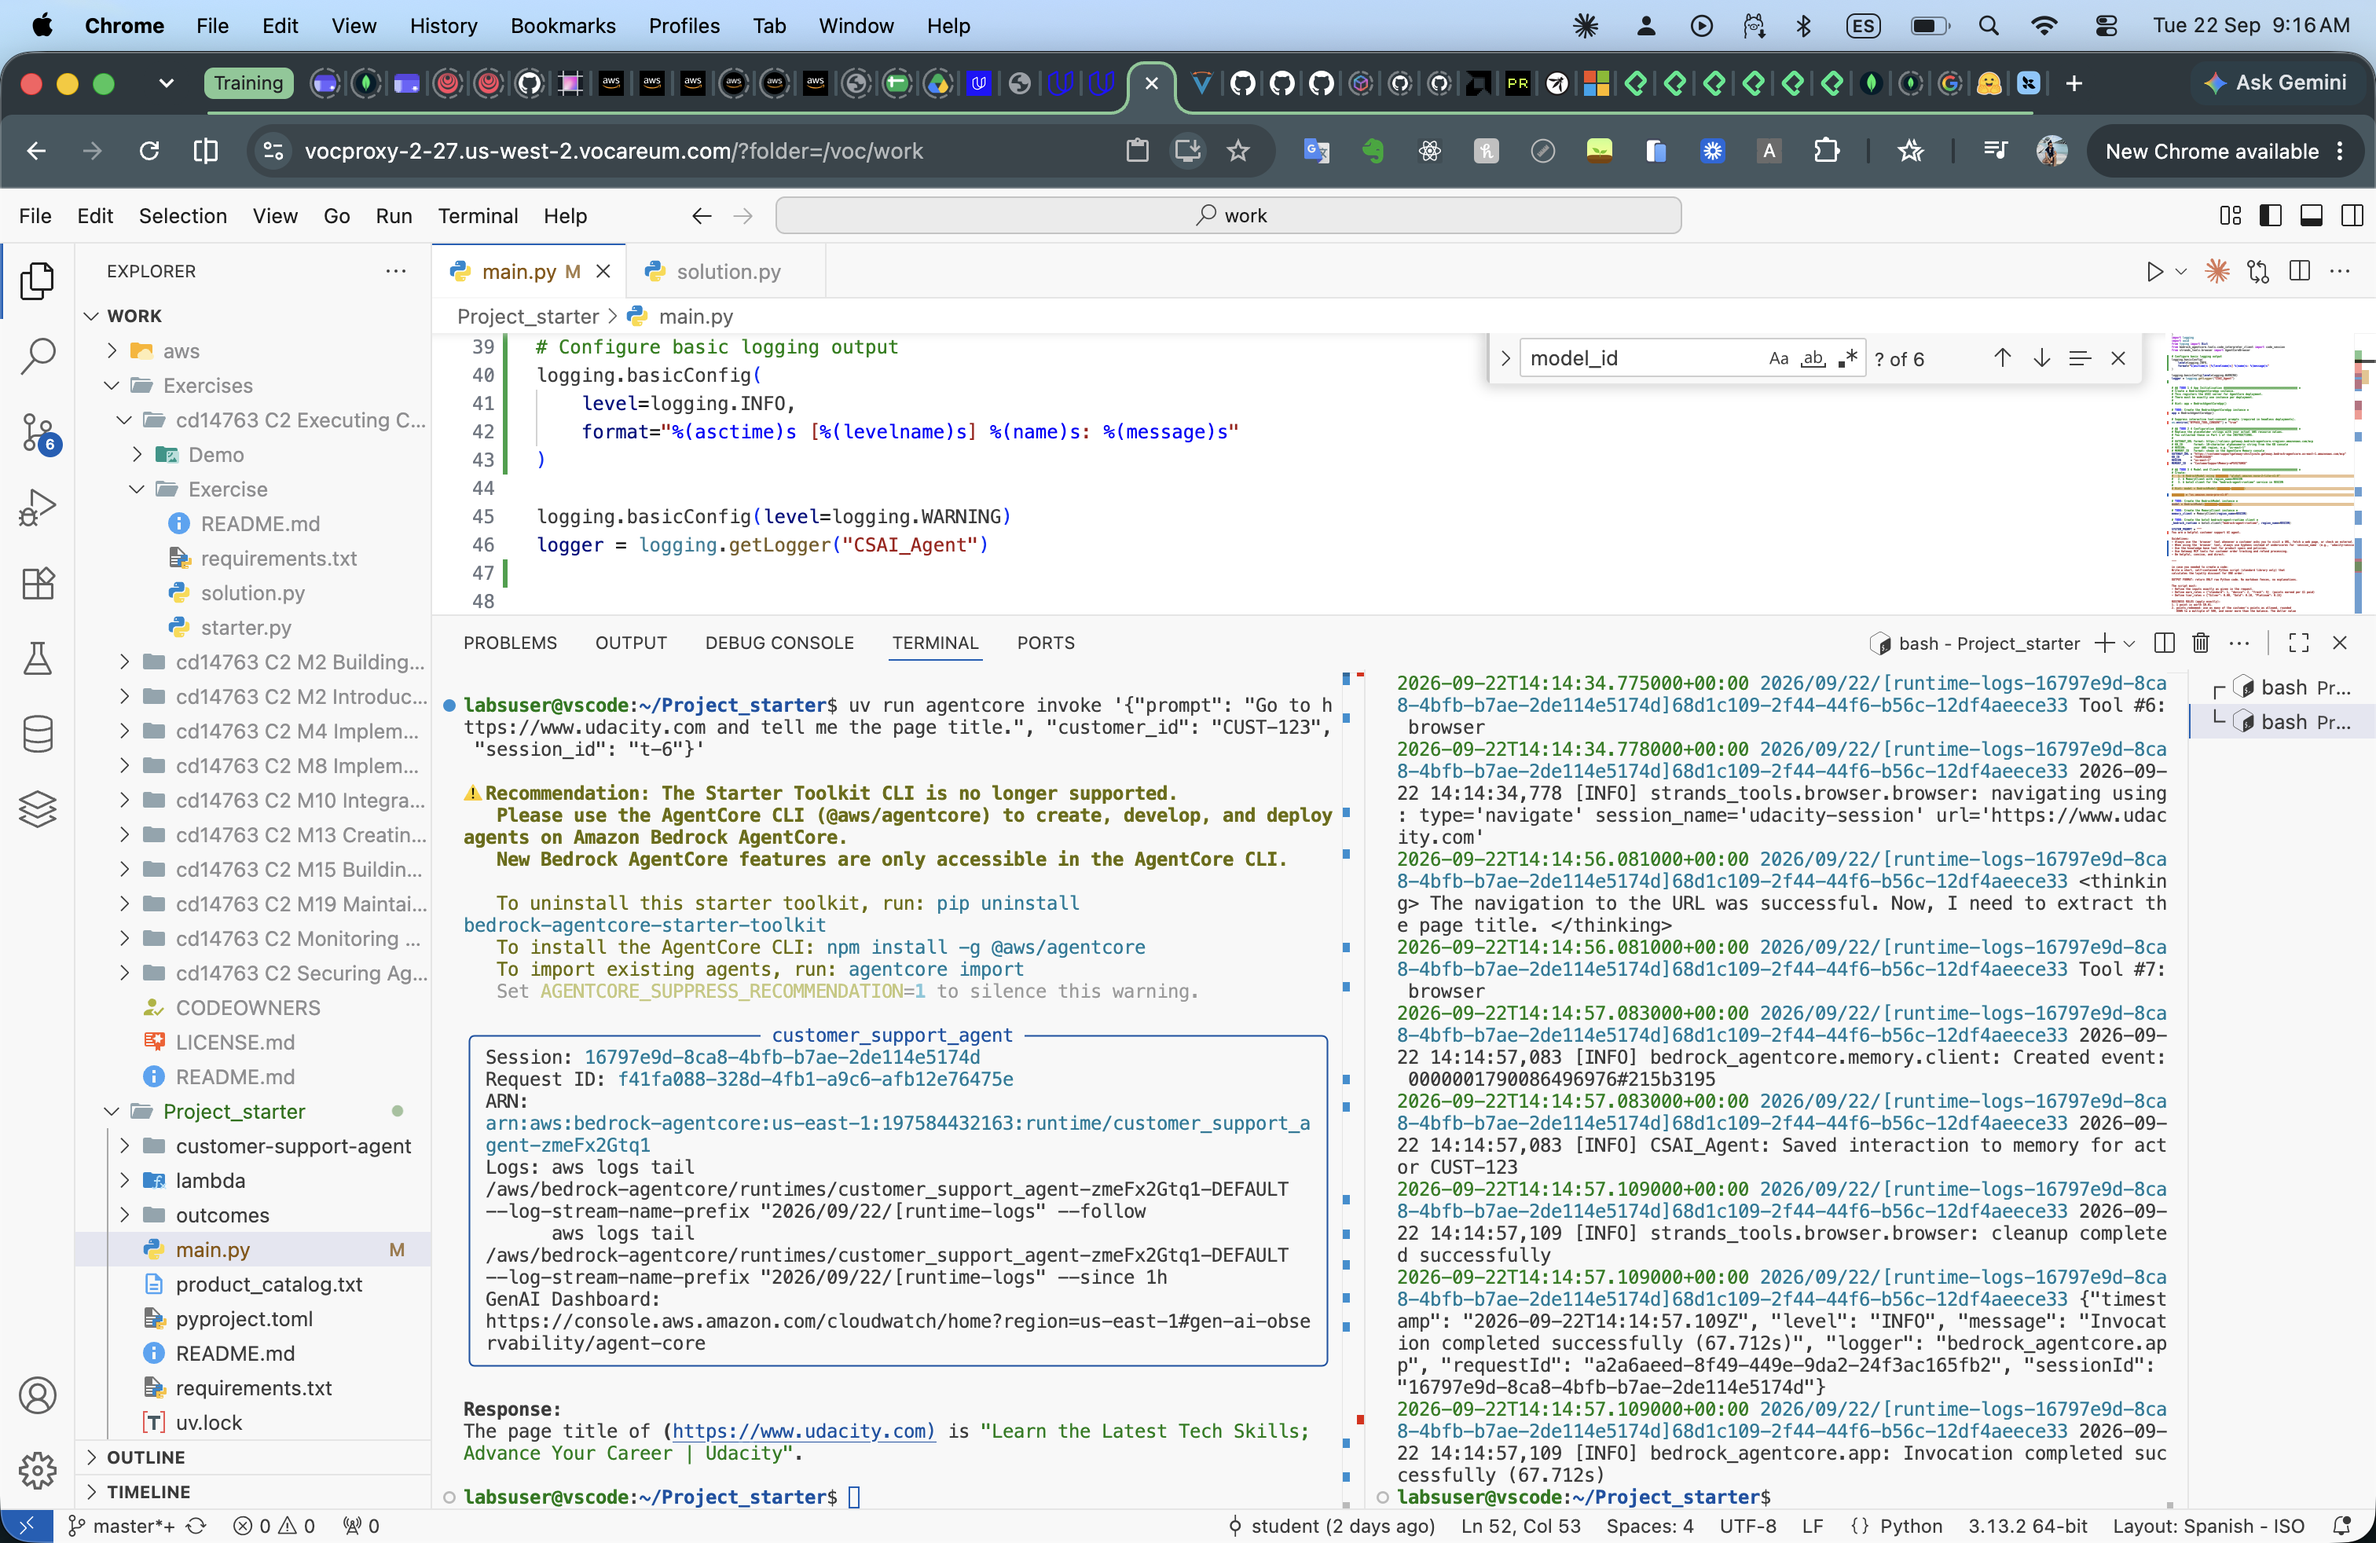
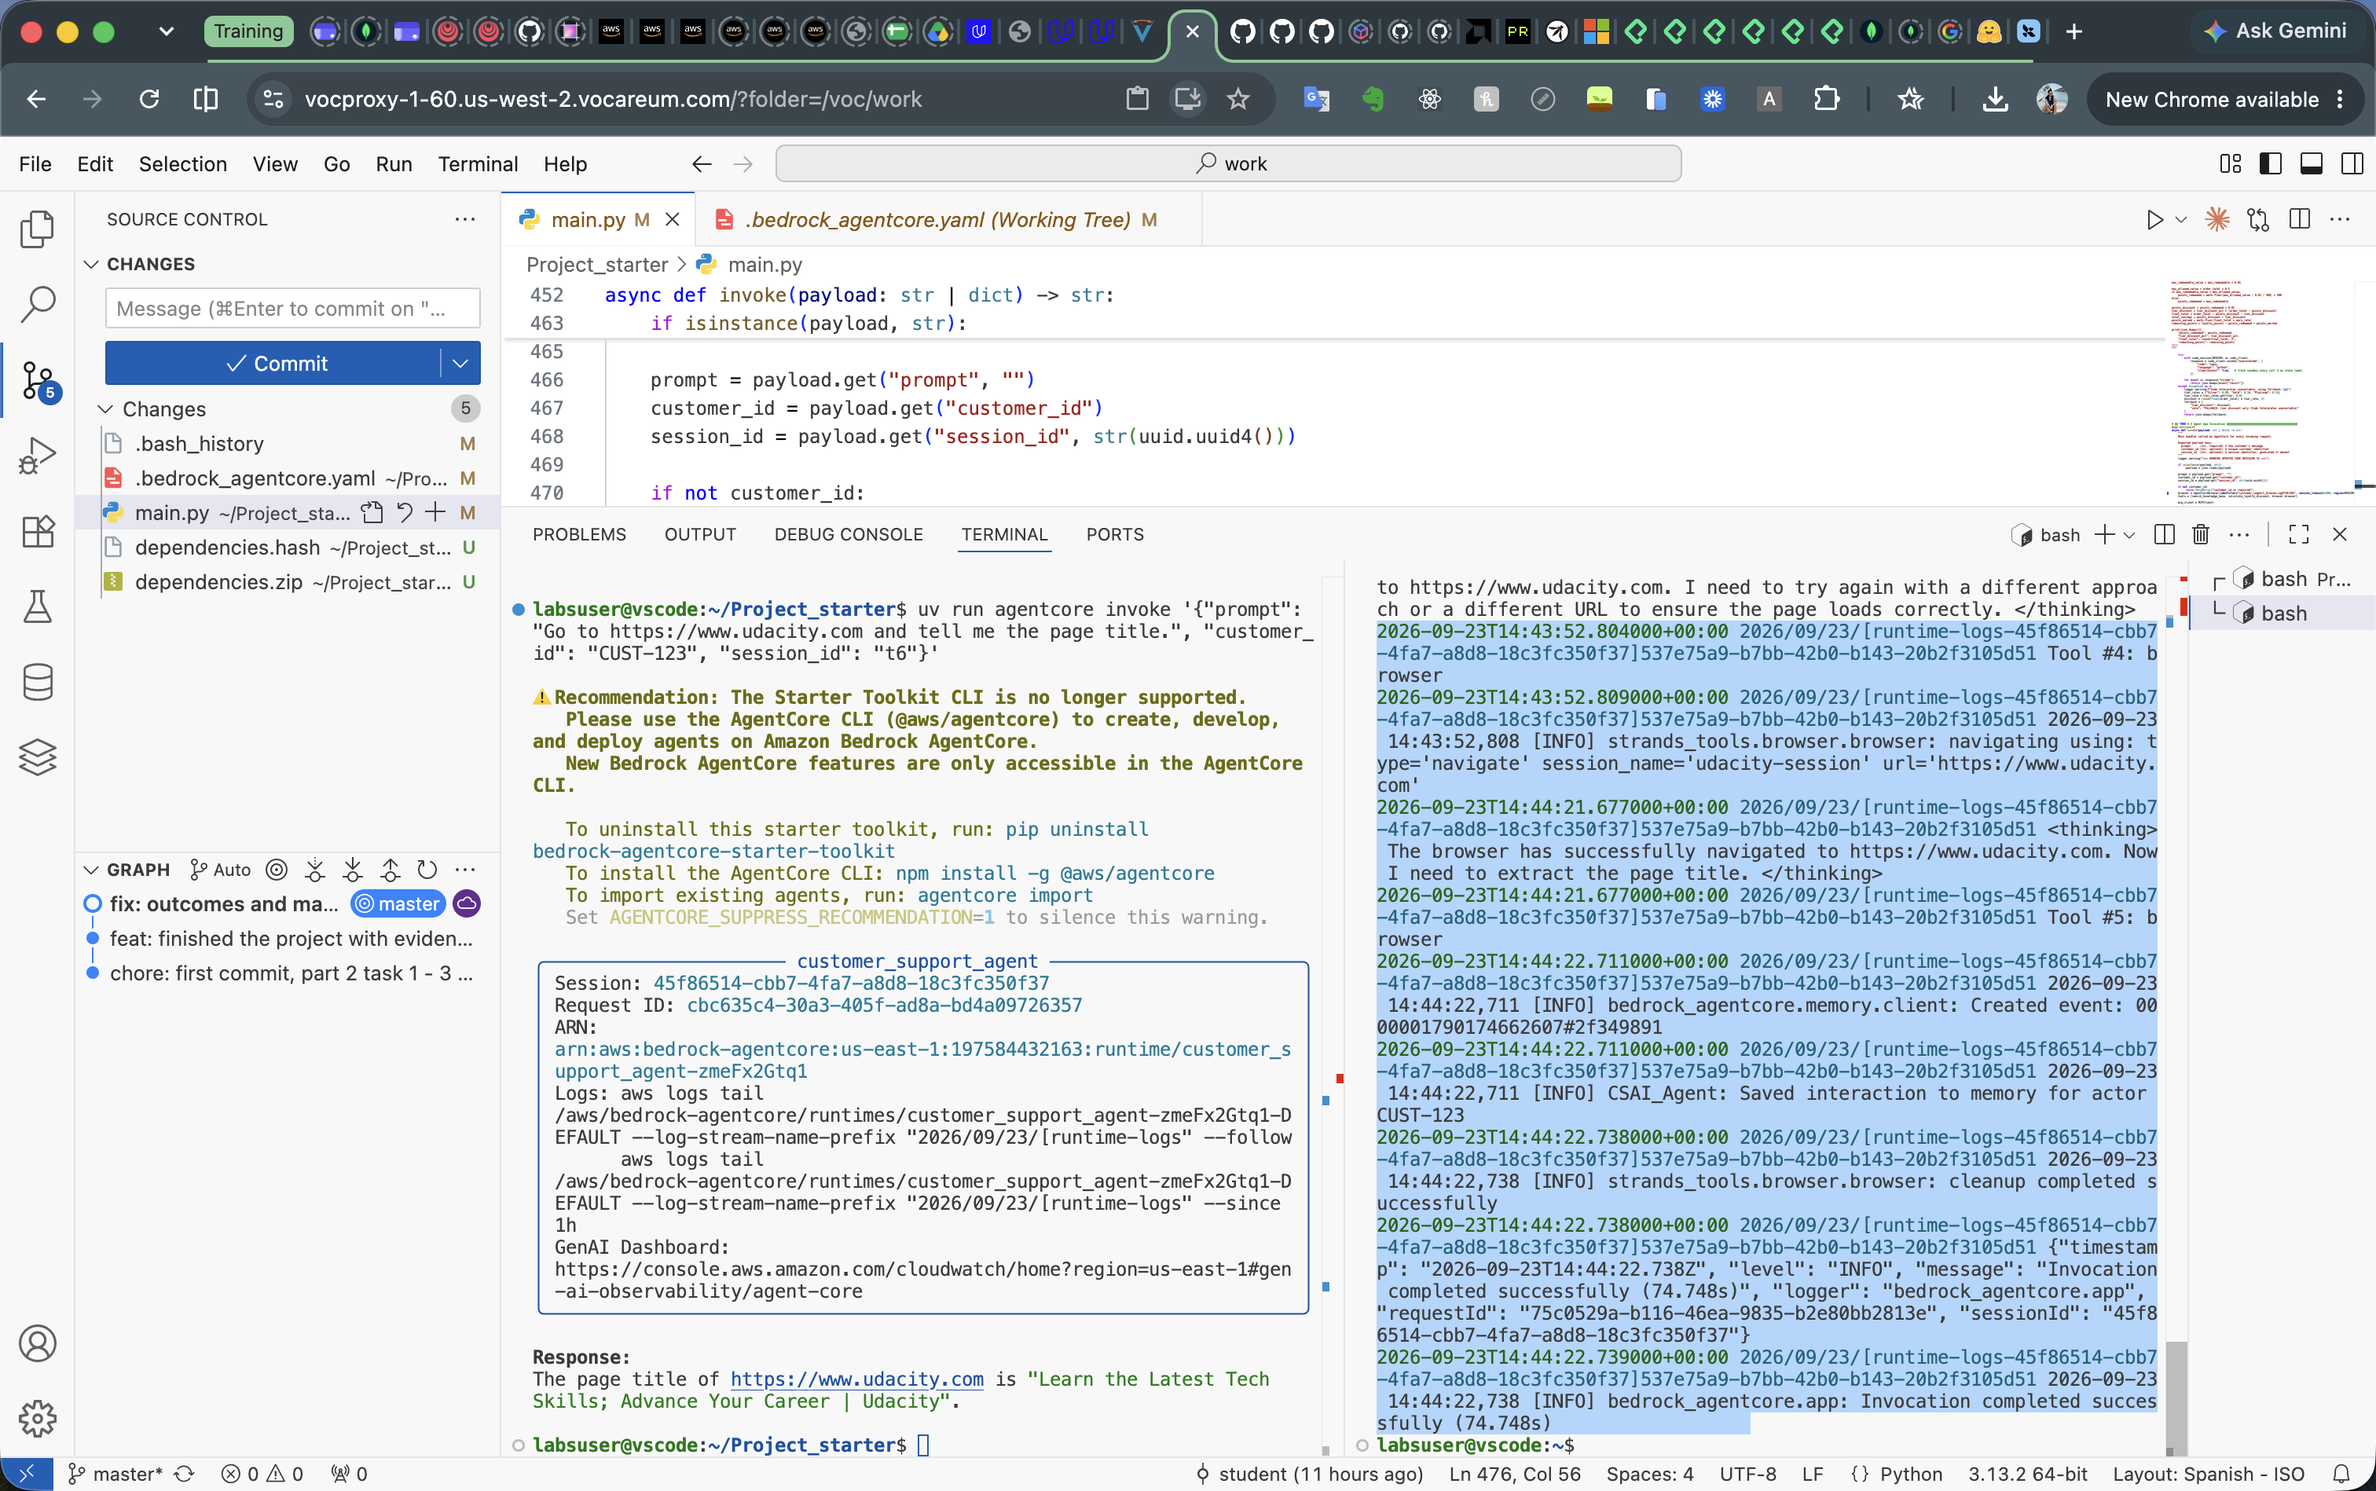
fix: region param into browser instance

diff --git a/Project_starter/main.py b/Project_starter/main.py
@@ -469,7 +469,7 @@ async def invoke(payload: str | dict) -> str:
     
     if not customer_id:
          raise ValueError("customer_id is required")
-    browser = AgentCoreBrowser(identifier="customer_support_browser-igGTtNrZOk", session_timeout=600)
+    browser = AgentCoreBrowser(identifier="customer_support_browser-igGTtNrZOk", session_timeout=1200, region=REGION)
     tools = [search_knowledge_base, calculate_loyalty_discount, browser.browser]
 
     mcp_client = MCPClient(
